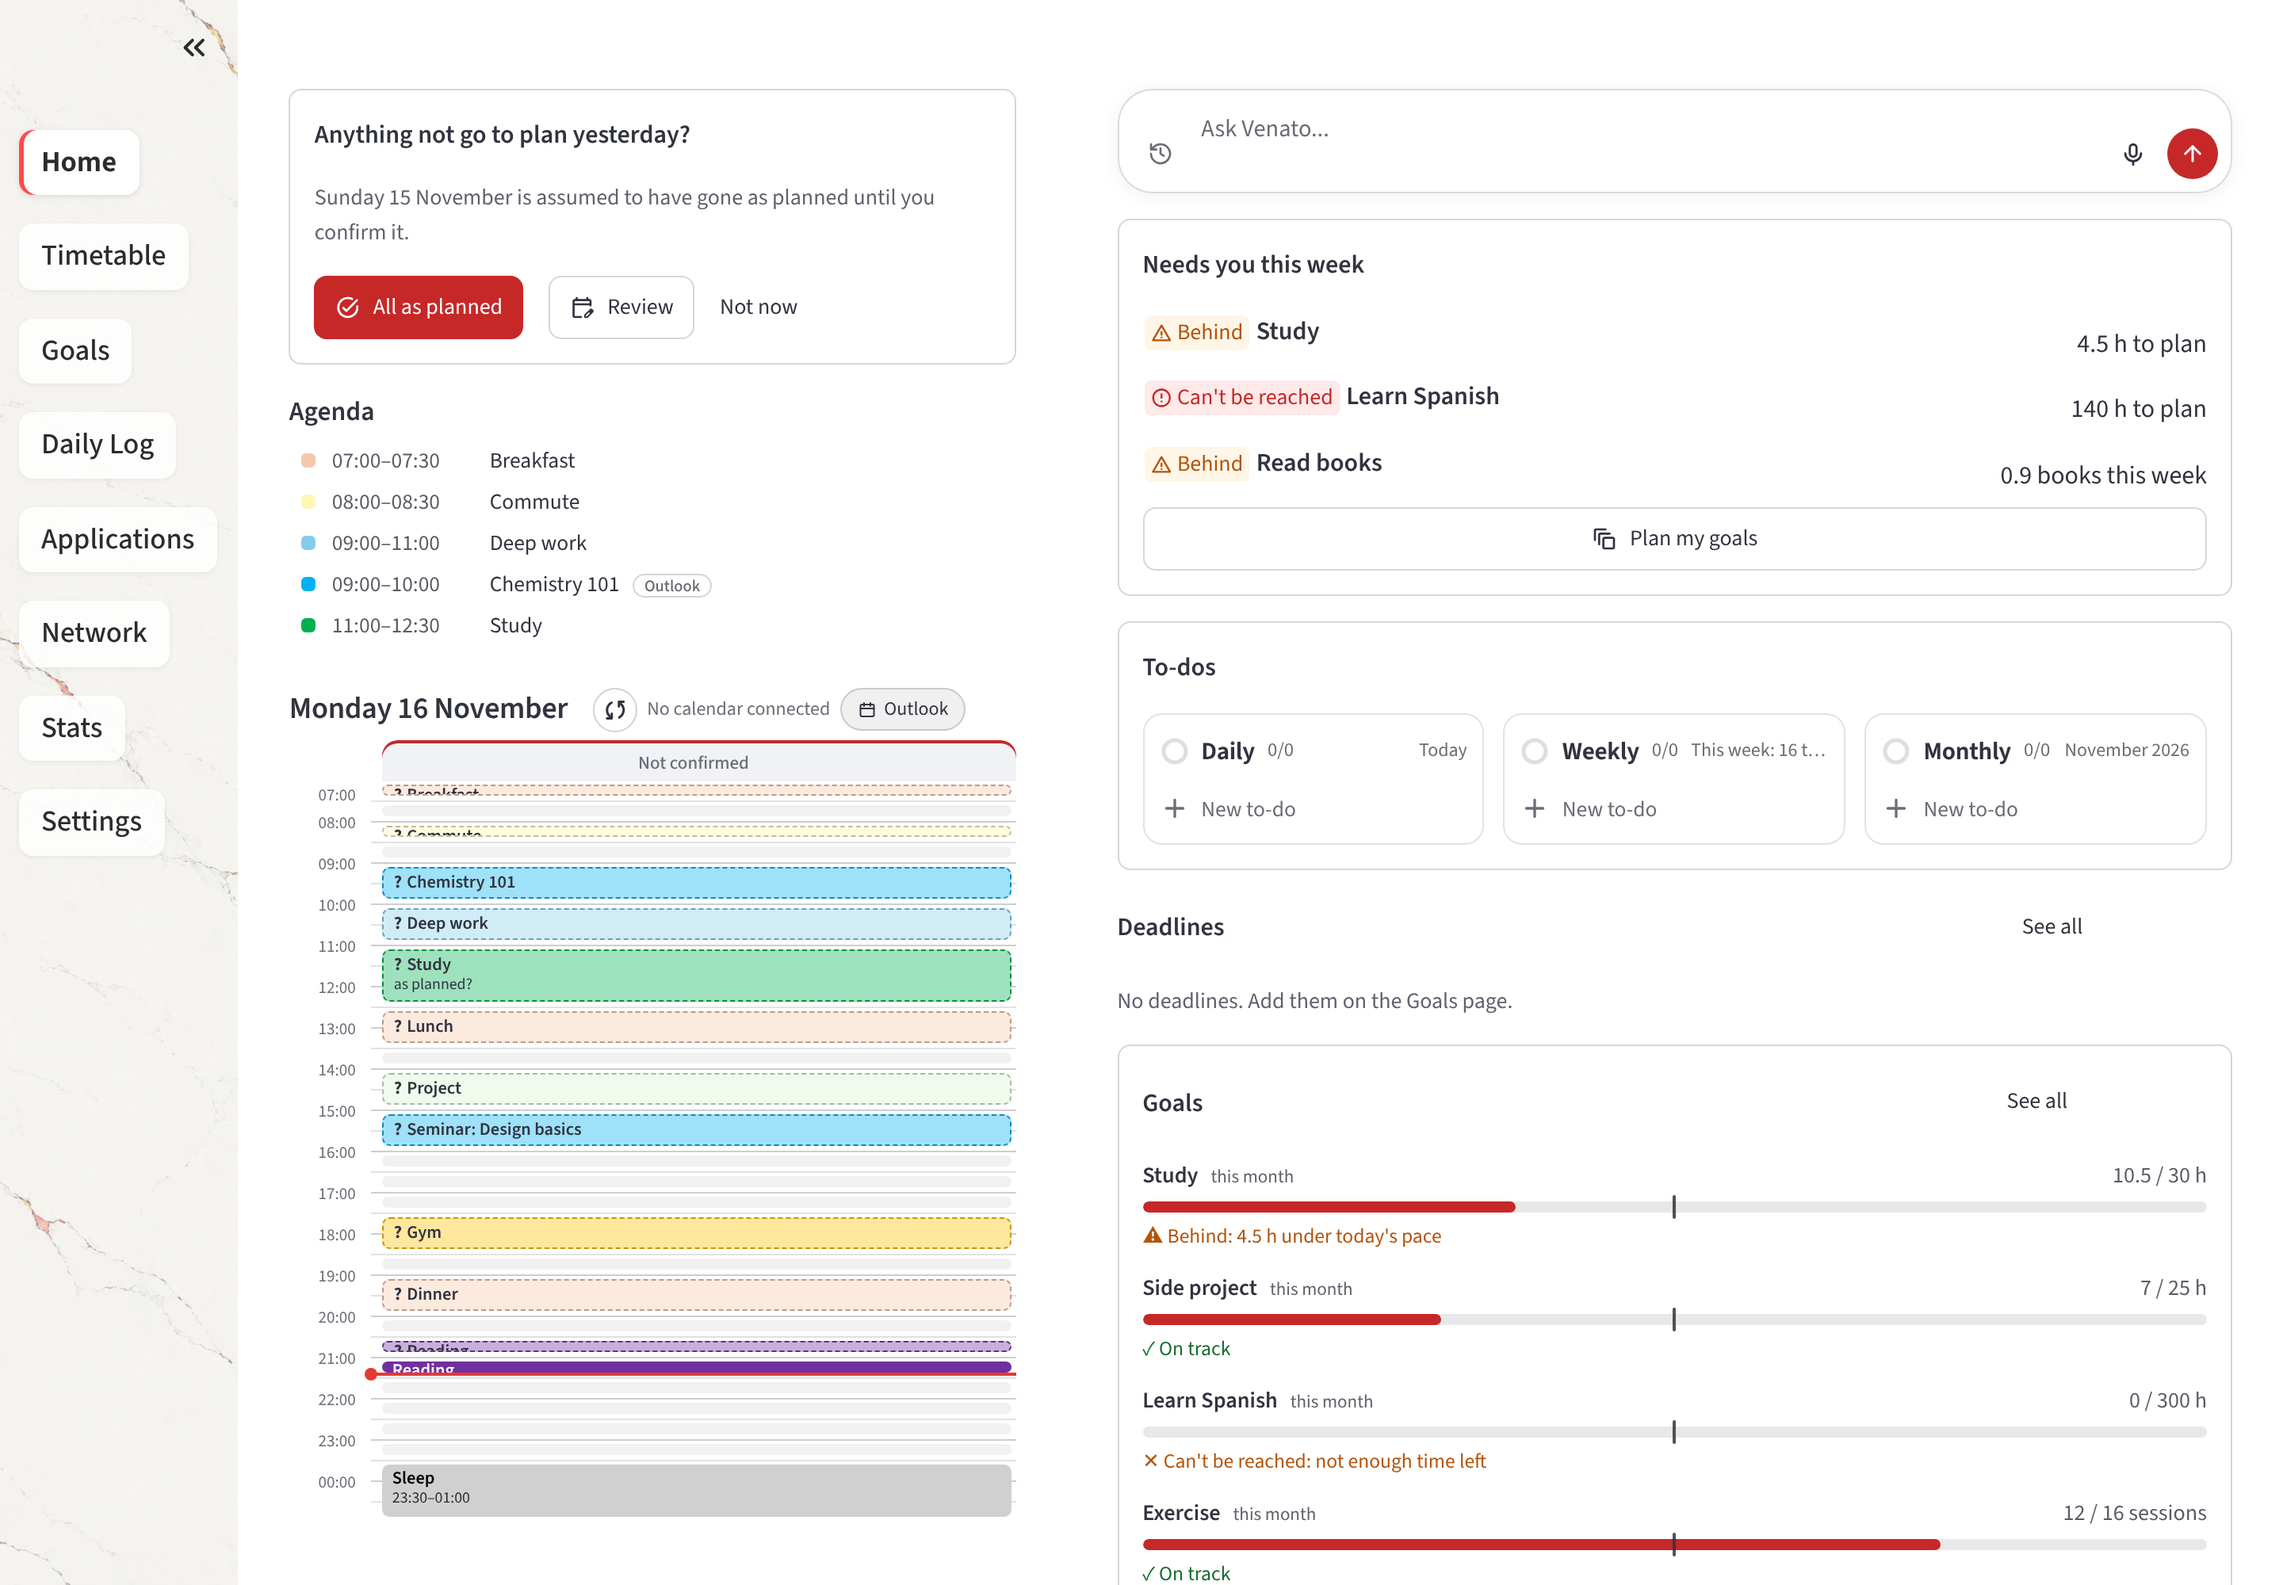
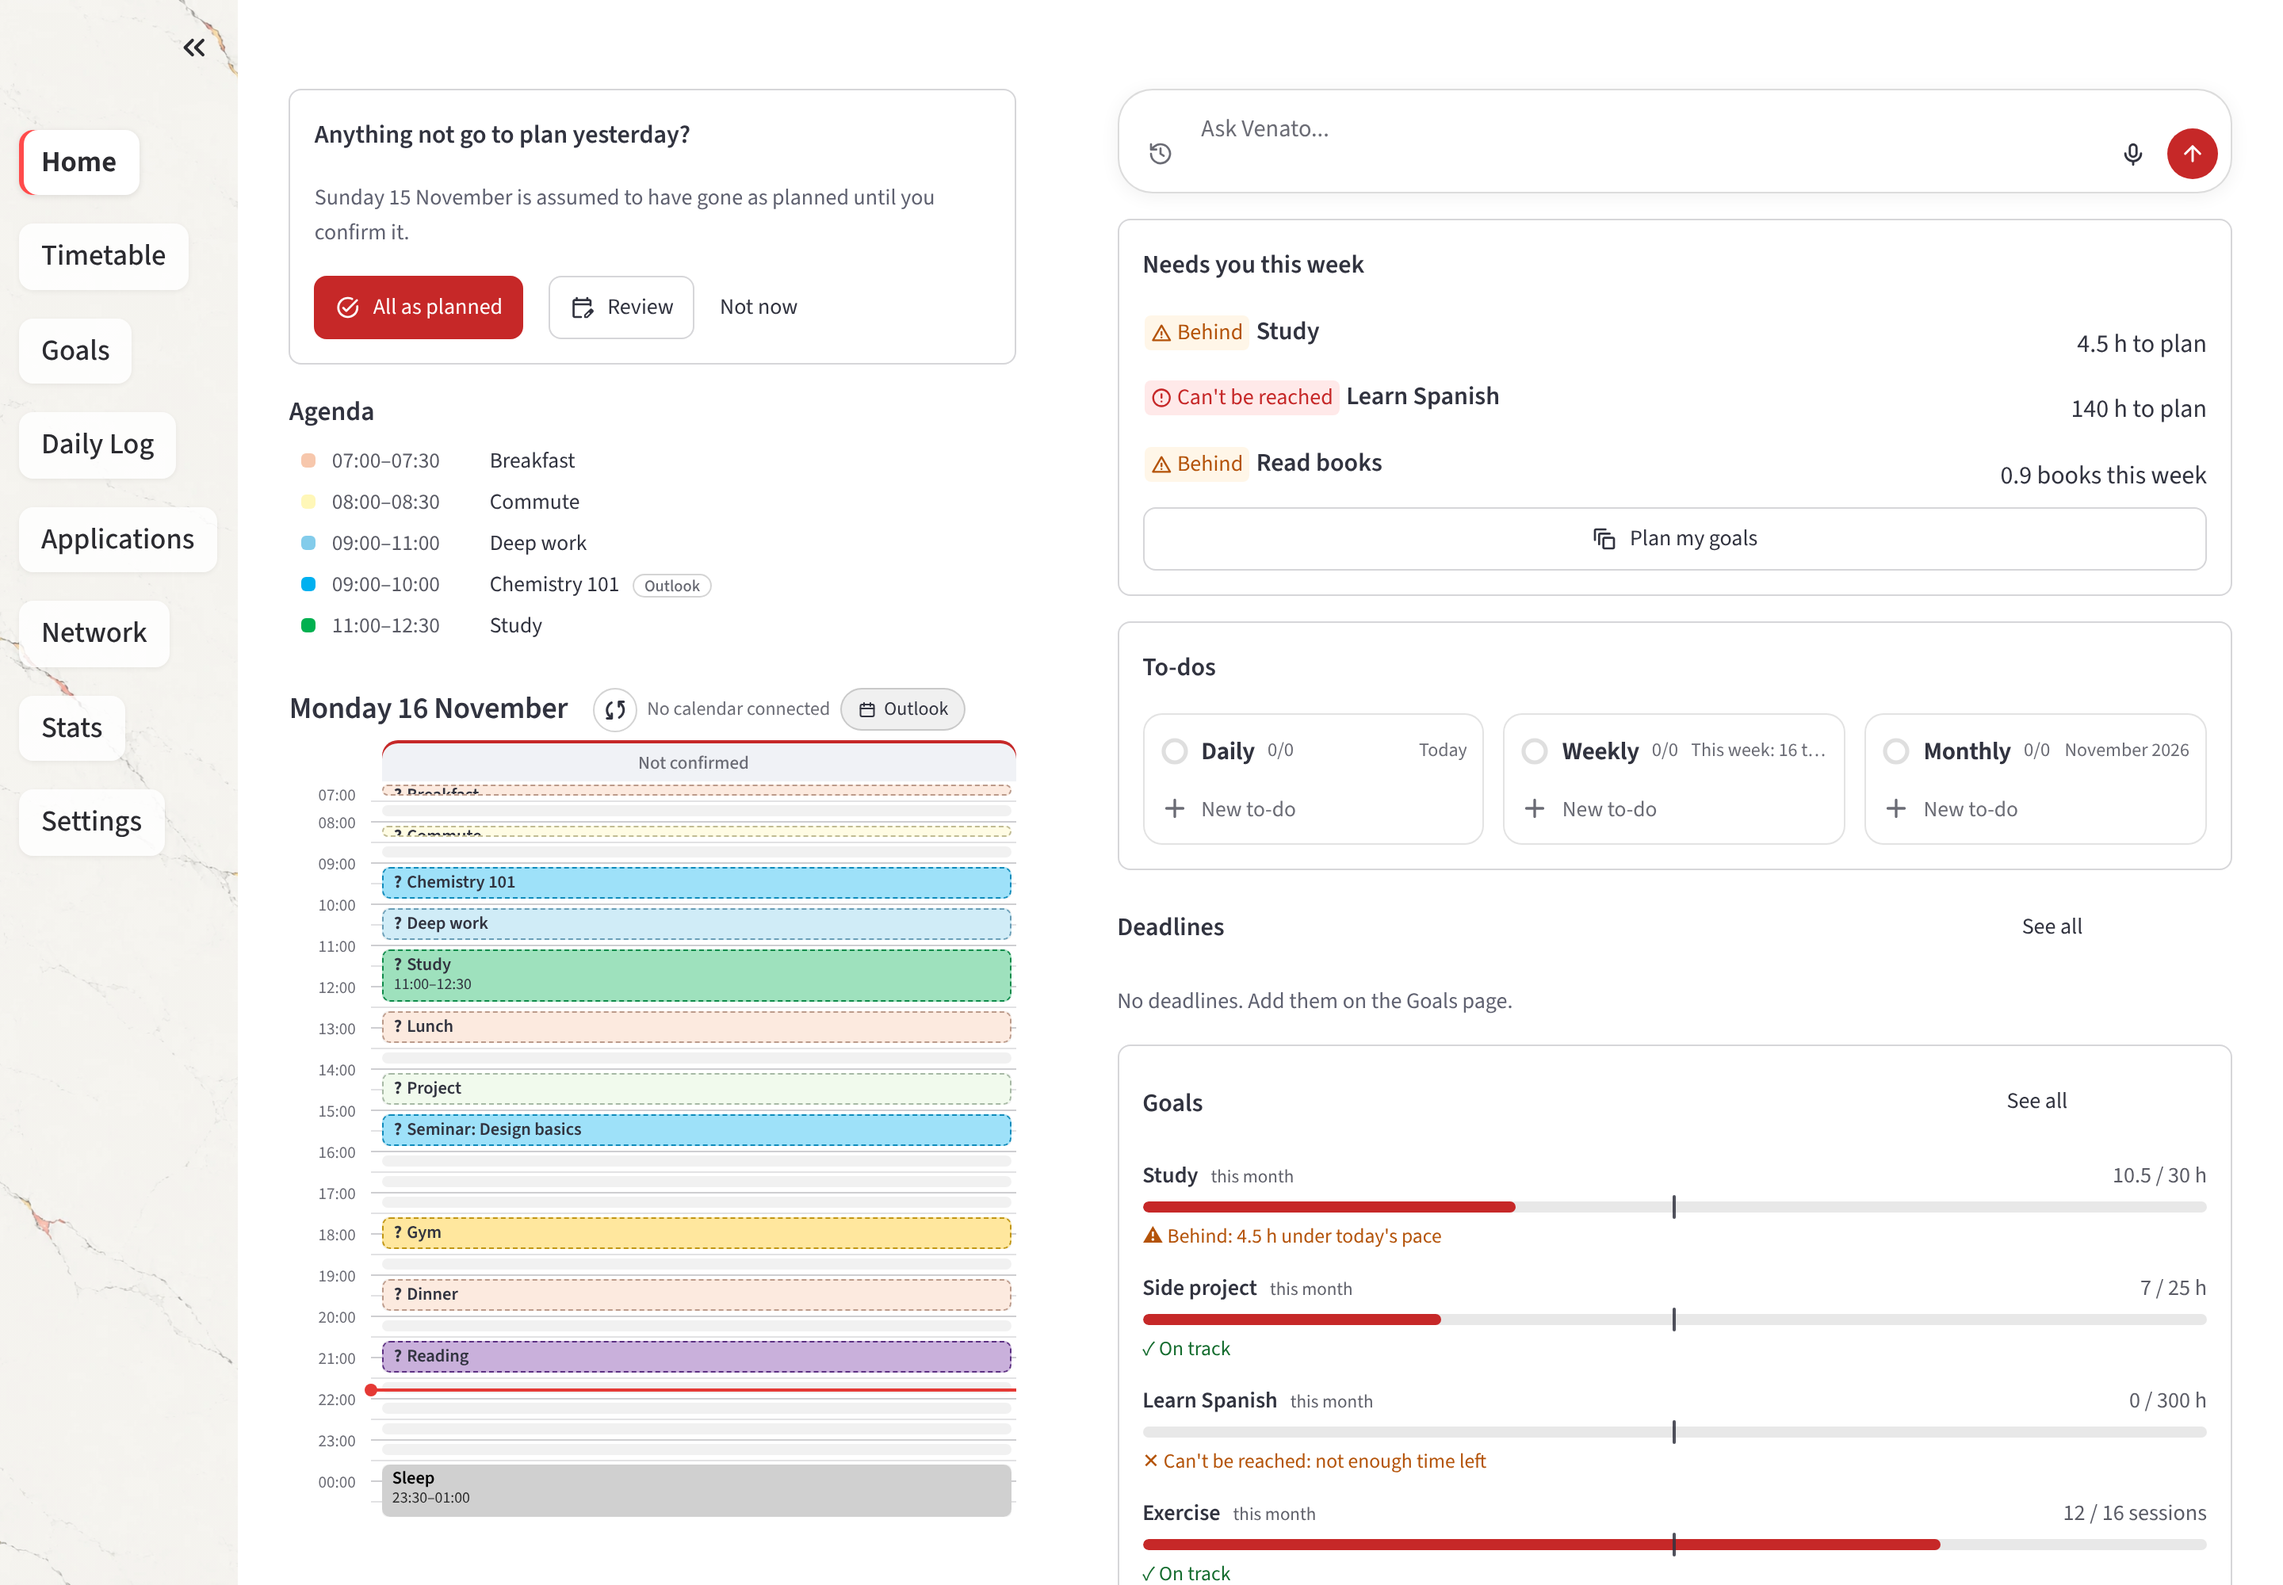
Timetable: assumed blocks show their times, not "as planned?"
The ? mark and dashed edge already say they're unconfirmed.

Claude-Session: https://claude.ai/code/session_01GkyjYC3kuxce9UHF6P5JRL

Changed region(s): [[0.1562, 0.837, 0.4688, 0.868]]

diff --git a/venato/ui/components/timetable_component.js b/venato/ui/components/timetable_component.js
@@ -849,7 +849,7 @@ class Timetable {
           const mark = kind === "assumed" ? "?" : kind === "skipped" ? "✕" : kind === "unplanned" ? "+" : "✓";
           return `<div class="blk past ${kind} ${tall ? "tall" : ""} ${this.focusId === id ? "focus" : ""}${this.hovered === id ? " hover" : ""}${this.picked.has(id) ? " picked" : ""}" data-id="${esc(id)}" style="${this.boxStyle(firstTd, lastTd, origin)}` +
             `--fill:${esc(bg)};${kind === "skipped" || kind === "assumed" ? "" : `background:${esc(bg)};color:${fg}`}">` +
-            `<b><i class="mk" aria-hidden="true">${mark}</i>${esc(en.label)}</b>${tall ? `<span>${kind === "assumed" ? "as planned?" : esc(fmtRange(slotTime(s), slotTime(e)))}</span>` : ""}</div>`;
+            `<b><i class="mk" aria-hidden="true">${mark}</i>${esc(en.label)}</b>${tall ? `<span>${esc(fmtRange(slotTime(s), slotTime(e)))}</span>` : ""}</div>`;
         }
         if (outlook) {
           return `<div class="blk outlook ${tall ? "tall" : ""} ${this.focusId === "outlook:" + en.id ? "focus" : ""}${this.hovered === "outlook:" + en.id ? " hover" : ""}${this.picked.has("outlook:" + en.id) ? " picked" : ""}" data-id="outlook:${esc(en.id)}" style="${this.boxStyle(firstTd, lastTd, origin)}` +
